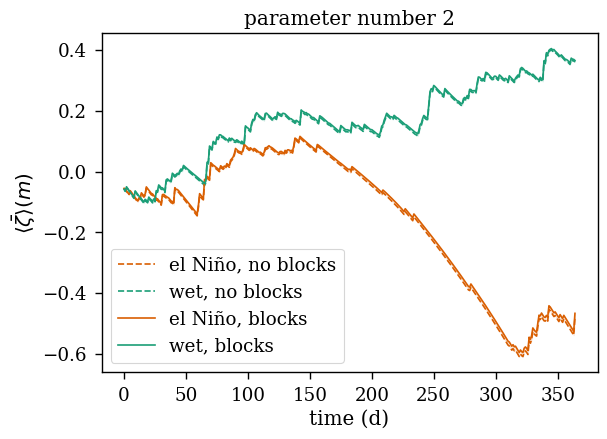
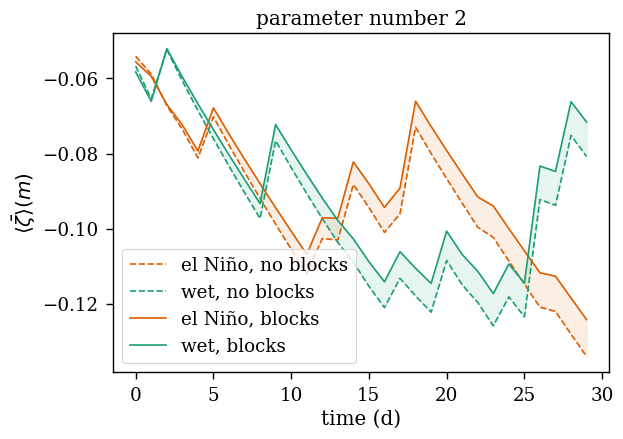
added some plots

diff --git a/results_plots.py b/results_plots.py
@@ -7,6 +7,9 @@ import rasterio
 from pathlib import Path
 from collections import OrderedDict
 import seaborn as sns
+import copy
+
+import read_weather_data
 
 # %% Define style
 plt.style.use('seaborn-paper')
@@ -15,10 +18,10 @@ sns.set_context('paper', font_scale=1.5)
 
 # %% Params
 
-N_DAYS = 365
+N_DAYS = 30
 
-N_PARAMS = 4
-params_to_plot = [1, 2, 3, 4]
+N_PARAMS = 2 
+params_to_plot = [1, 2]
 
 parent_folder = Path('.')
 output_folder = Path('output/plots')
@@ -28,6 +31,10 @@ data_folder = Path('output')
 # colormap
 # see https://matplotlib.org/3.5.0/tutorials/colors/colormaps.html
 cmap = cm.get_cmap('Dark2')
+cmap_parameterization = plt.get_cmap('Set1')
+cmap_wtd_raster = copy.copy(plt.get_cmap('Blues_r')) # reversed blues  
+
+param_colors = [cmap_parameterization(i) for i in range(len(params_to_plot))]
 
 # Foldernames
 modes = ([
@@ -97,6 +104,7 @@ def read_data(n_params, modes, n_days, rasters_shape):
 data = read_data(params_to_plot, modes, N_DAYS, raster_shape)
 
 # Change raster nans to zeros
+data_with_nan = data[:]
 data = np.nan_to_num(data, nan=0.0)
 
 # %% Compute averages
@@ -114,10 +122,14 @@ data_capped_at_zero = data[:]
 data_capped_at_zero[data > 0] = 0.0
 
 # CO2 emission calc. Params from Jauhiainen 2012
-alpha = 74.11/365  # Mg/ha/m/day
-beta = 29.34/365  # Mg/ha/day
-m_CO2_daily = -alpha * \
-    np.mean(data_capped_at_zero, axis=(3, 4)) + beta  # Mg/ha/day
+def mCO2_per_hectare_per_day_from_zeta(zeta):
+    # zeta must be daily data
+    alpha = 74.11/365  # Mg/ha/m/day
+    beta = 29.34/365  # Mg/ha/day
+    # m_CO2_daily = -alpha * zeta + beta 
+    return -alpha * zeta + beta 
+
+m_CO2_daily = mCO2_per_hectare_per_day_from_zeta(zeta = np.mean(data_capped_at_zero, axis=(3, 4)))  # Mg/ha/day
 cum_CO2_daily = np.cumsum(m_CO2_daily, axis=2)
 
 # unblocked - blocked
@@ -262,6 +274,7 @@ for i_param, param_to_plot in enumerate(params_to_plot):
 plt.figure()
 plt.title('All parameters, wet, daily avg zeta over time')
 p = sns.lineplot(
+
     data=df_daily_spatialaverage[df_daily_spatialaverage['weather'] == 'wet'],
     x='day', y='avg_zeta',
     style='blocks', style_order=(['blocks', 'no blocks']),
@@ -292,29 +305,54 @@ plt.show()
 
 
 # -----------------------------------------
-# One param cumulative saved CO2 over time
+# Avg params cumulative saved CO2 over time
 # -----------------------------------------
-plt.figure()
-plt.title(f'All parameters, sequestered CO_2')
+fig, ax = plt.subplots()
+ax.set_title(f'All parameters, sequestered CO_2')
 p = sns.lineplot(
     data=df_daily_dry_CO2,
     x='day', y='cum_sequestered_CO2',
     label='dry',
     color=modes[2]['color'],
-    ci='sd'
+    ci='sd',
+    ax=ax
 )
 p = sns.lineplot(
     data=df_daily_wet_CO2,
     x='day', y='cum_sequestered_CO2',
     label='wet',
     color=modes[3]['color'],
-    ci='sd'
+    ci='sd',
+    ax=ax
 )
 p.set_xlabel('time (d)')
-p.set_ylabel('sequestered CO2 $(Mg ha^{-1})$')
+p.set_ylabel('sequestered $CO_2 (Mg ha^{-1})$')
 plt.legend()
 plt.savefig(output_folder.joinpath(f'daily_cumulative_CO2_all_params'),
             bbox_inches='tight')
+
+plt.show()
+
+# ------------------------------------------
+# All params cumulativesaved CO2 over time
+# -----------------------------------------
+plt.figure()
+plt.title('Sequestered $CO_2$ per parameter')
+plt.ylabel('sequestered $CO_2 (Mg ha^{-1})$')
+plt.xlabel('time (d)')
+
+for ip, p in enumerate(params_to_plot):
+    df = df_daily_dry_CO2[df_daily_dry_CO2['param'] == p]
+    plt.plot(df.day, df.cum_sequestered_CO2,
+            color=param_colors[ip],
+            label=f'parameter {p}',
+            linestyle='dashed')
+    df = df_daily_wet_CO2[df_daily_dry_CO2['param'] == p]
+    plt.plot(df.day, df.cum_sequestered_CO2,
+            color=param_colors[ip],
+            label=f'parameter {p}',
+            linestyle='solid')
+plt.legend()
 plt.show()
 
 # ---------------------------------------
@@ -445,7 +483,6 @@ unique_t2_values = [2.5, 7.5]
 
 zz = np.linspace(-1, 0.3, num=1000)
 
-cmap_parameterization = plt.get_cmap('Set1')
 fig, axes = plt.subplots(nrows=2, ncols=3, sharey=True, figsize=(16, 9))
 
 gs = axes[1,0].get_gridspec()
@@ -467,28 +504,28 @@ axes[0,1].grid(visible=True)
 axes[0,1].set_xlabel(r'$T(m^2 d^{-1})$')
 axes[0,1].set_xscale('log')
 axes[0,1].plot(T(zz, unique_t1_values[0], unique_t2_values[0], unique_s1_values[1]), zz,
-             color=cmap_parameterization(0), linestyle='dashed',
+             color=param_colors[0], linestyle='solid',
              label='param_1')
 axes[0,1].plot(T(zz, unique_t1_values[0], unique_t2_values[1], unique_s1_values[1]), zz,
-             color=cmap_parameterization(1), linestyle='dashed',
+             color=param_colors[1], linestyle='solid',
              label='param_2')
 axes[0,1].plot(T(zz, unique_t1_values[1], unique_t2_values[0], unique_s1_values[1]), zz,
-             color=cmap_parameterization(2), linestyle='dashed',
+             color=param_colors[2], linestyle='solid',
              label='param_3')
 axes[0,1].plot(T(zz, unique_t1_values[1], unique_t2_values[1], unique_s1_values[1]), zz,
-             color=cmap_parameterization(3), linestyle='dashed',
+             color=param_colors[3], linestyle='solid',
              label='param_4')
 axes[0,1].plot(T(zz, unique_t1_values[0], unique_t2_values[0], unique_s1_values[0]), zz,
-             color=cmap_parameterization(0), linestyle='solid',
+             color=param_colors[4], linestyle='solid',
              label='param_5')
 axes[0,1].plot(T(zz, unique_t1_values[0], unique_t2_values[1], unique_s1_values[0]), zz,
-             color=cmap_parameterization(1), linestyle='solid',
+             color=param_colors[5], linestyle='solid',
              label='param_6')
 axes[0,1].plot(T(zz, unique_t1_values[1], unique_t2_values[0], unique_s1_values[0]), zz,
-             color=cmap_parameterization(2), linestyle='solid',
+             color=param_colors[6], linestyle='solid',
              label='param_7')
 axes[0,1].plot(T(zz, unique_t1_values[1], unique_t2_values[1], unique_s1_values[0]), zz,
-             color=cmap_parameterization(3), linestyle='solid',
+             color=param_colors[7], linestyle='solid',
              label='param_8')
 # axes[1].set_ylabel(r'$\zeta$')
 
@@ -497,13 +534,13 @@ axes[0,2].grid(visible=True)
 axes[0,2].set_xlabel(r'$K(md^{-1})$')
 axes[0,2].set_xscale('log')
 axes[0,2].plot(K(zz, unique_t1_values[0], unique_t2_values[0], unique_s1_values[0]), zz,
-             color=cmap_parameterization(0), linestyle='solid')
+             color=param_colors[0], linestyle='solid')
 axes[0,2].plot(K(zz, unique_t1_values[0], unique_t2_values[1], unique_s1_values[0]), zz,
-             color=cmap_parameterization(1), linestyle='solid')
+             color=param_colors[1], linestyle='solid')
 axes[0,2].plot(K(zz, unique_t1_values[1], unique_t2_values[0], unique_s1_values[0]), zz,
-             color=cmap_parameterization(2), linestyle='solid')
+             color=param_colors[2], linestyle='solid')
 axes[0,2].plot(K(zz, unique_t1_values[1], unique_t2_values[1], unique_s1_values[0]), zz,
-             color=cmap_parameterization(3), linestyle='solid')
+             color=param_colors[3], linestyle='solid')
 # axes[2].set_ylabel(r'$\zeta$')
 
 # Diffusivity
@@ -512,28 +549,28 @@ ax_D.set_xlabel(r'$D(m^{2}d^{-1})$')
 ax_D.set_ylabel(r'$\zeta (m)$')
 # ax_D.set_xscale('log')
 ax_D.plot(D(zz, unique_t1_values[0], unique_t2_values[0], unique_s1_values[1], s2), zz,
-             color=cmap_parameterization(0), linestyle='dashed',
+             color=param_colors[0], linestyle='solid',
              label='param_1')
 ax_D.plot(D(zz, unique_t1_values[0], unique_t2_values[1], unique_s1_values[1], s2), zz,
-             color=cmap_parameterization(1), linestyle='dashed',
+             color=param_colors[1], linestyle='solid',
              label='param_2')
 ax_D.plot(D(zz, unique_t1_values[1], unique_t2_values[0], unique_s1_values[1], s2), zz,
-             color=cmap_parameterization(2), linestyle='dashed',
+             color=param_colors[2], linestyle='solid',
              label='param_3')
 ax_D.plot(D(zz, unique_t1_values[1], unique_t2_values[1], unique_s1_values[1], s2), zz,
-             color=cmap_parameterization(3), linestyle='dashed',
+             color=param_colors[3], linestyle='solid',
              label='param_4')
 ax_D.plot(D(zz, unique_t1_values[0], unique_t2_values[0], unique_s1_values[0], s2), zz,
-             color=cmap_parameterization(0), linestyle='solid',
+             color=param_colors[4], linestyle='solid',
              label='param_5')
 ax_D.plot(D(zz, unique_t1_values[0], unique_t2_values[1], unique_s1_values[0], s2), zz,
-             color=cmap_parameterization(1), linestyle='solid',
+             color=param_colors[5], linestyle='solid',
              label='param_6')
 ax_D.plot(D(zz, unique_t1_values[1], unique_t2_values[0], unique_s1_values[0], s2), zz,
-             color=cmap_parameterization(2), linestyle='solid',
+             color=param_colors[6], linestyle='solid',
              label='param_7')
 ax_D.plot(D(zz, unique_t1_values[1], unique_t2_values[1], unique_s1_values[0], s2), zz,
-             color=cmap_parameterization(3), linestyle='solid',
+             color=param_colors[7], linestyle='solid',
              label='param_8')
 
 
@@ -544,4 +581,67 @@ fig.tight_layout()
 plt.savefig(output_folder.joinpath(f'parameterization'), bbox_inches='tight')
 plt.show()
 
-# %%
+# %% WTD rasters 
+day = 10
+parameter = 1
+mode = 0 #nodry, nowet, yesdry, yeswet
+
+plt.figure()
+plt.title(f'day {day}, param {parameter}, {modes[mode]["name"]}')
+cmap_wtd_raster.set_bad(color='white')
+plt.axis('off')
+
+plt.imshow(data_with_nan[parameter, mode, day, :, :],
+
+        cmap=cmap_wtd_raster)
+plt.colorbar()
+plt.show()
+
+
+# %% Precipitation & ET
+dry_sourcesink = read_weather_data.get_daily_net_source(year_type='elnino')
+wet_sourcesink = read_weather_data.get_daily_net_source(year_type='normal')
+# mm to m
+dry_sourcesink, wet_sourcesink = 1000*dry_sourcesink, 1000*wet_sourcesink
+
+fig, ax = plt.subplots(nrows=2, ncols=1,
+        sharex=True, constrained_layout=True)
+ax_wet = ax[0]
+ax_dry = ax[1]
+ax_dry.set_xlabel('time (d)')
+ax_dry.set_ylabel(r'$P - ET (mm) $')
+ax_wet.set_ylabel(r'$P - ET (mm) $')
+ax_wet_twin = ax_wet.twinx()
+ax_wet_twin.set_ylabel('cumulative $P - ET$ (mm)')
+ax_dry_twin = ax_dry.twinx()
+ax_dry_twin.set_ylabel('cumulative $P - ET$ (mm)')
+
+ax_left_limits = [min(wet_sourcesink) - 5, max(wet_sourcesink) + 5]
+ax_right_limits = [min(np.cumsum(dry_sourcesink)) - 10, np.sum(wet_sourcesink) + 10]
+ax_wet.set_ylim(ax_left_limits)
+ax_wet_twin.set_ylim(ax_right_limits)
+ax_dry.set_ylim(ax_left_limits)
+ax_dry_twin.set_ylim(ax_right_limits)
+
+ax_wet_twin.axhline(y=0, color='black', alpha=0.1)
+ax_dry_twin.axhline(y=0, color='black', alpha=0.1)
+
+ax_wet.bar(x=range(len(wet_sourcesink)),
+        height=wet_sourcesink,
+        label='wet year',
+        alpha=0.4,
+        color=modes[1]['color']
+        )
+ax_wet_twin.plot(range(len(wet_sourcesink)), np.cumsum(wet_sourcesink),
+        color=modes[1]['color'])
+ax_dry.bar(x=range(len(dry_sourcesink)),
+        height=dry_sourcesink,
+        label='dry year',
+        alpha=0.4,
+        color=modes[0]['color']
+        )
+ax_dry_twin.plot(range(len(dry_sourcesink)), np.cumsum(dry_sourcesink),
+        color=modes[0]['color'])
+ax_dry.legend(loc='upper right')
+ax_wet.legend(loc='upper right')
+plt.show()
